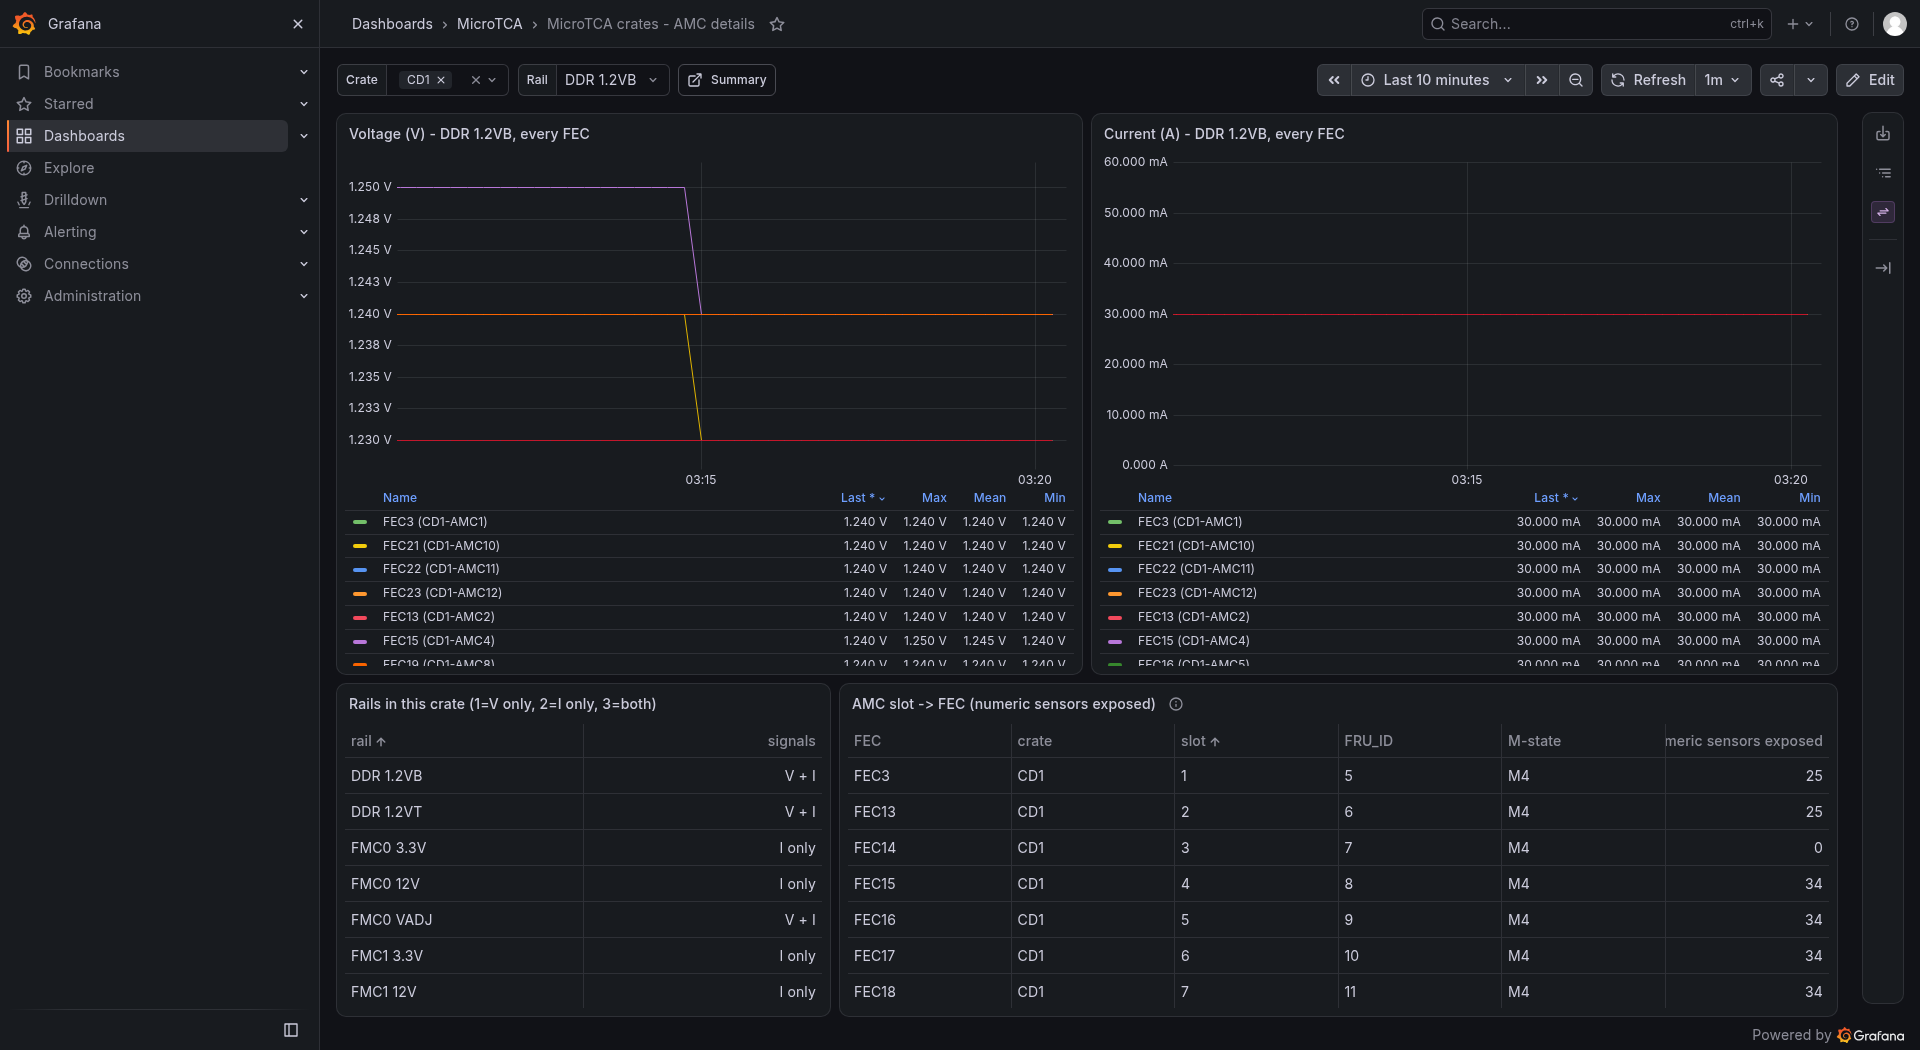
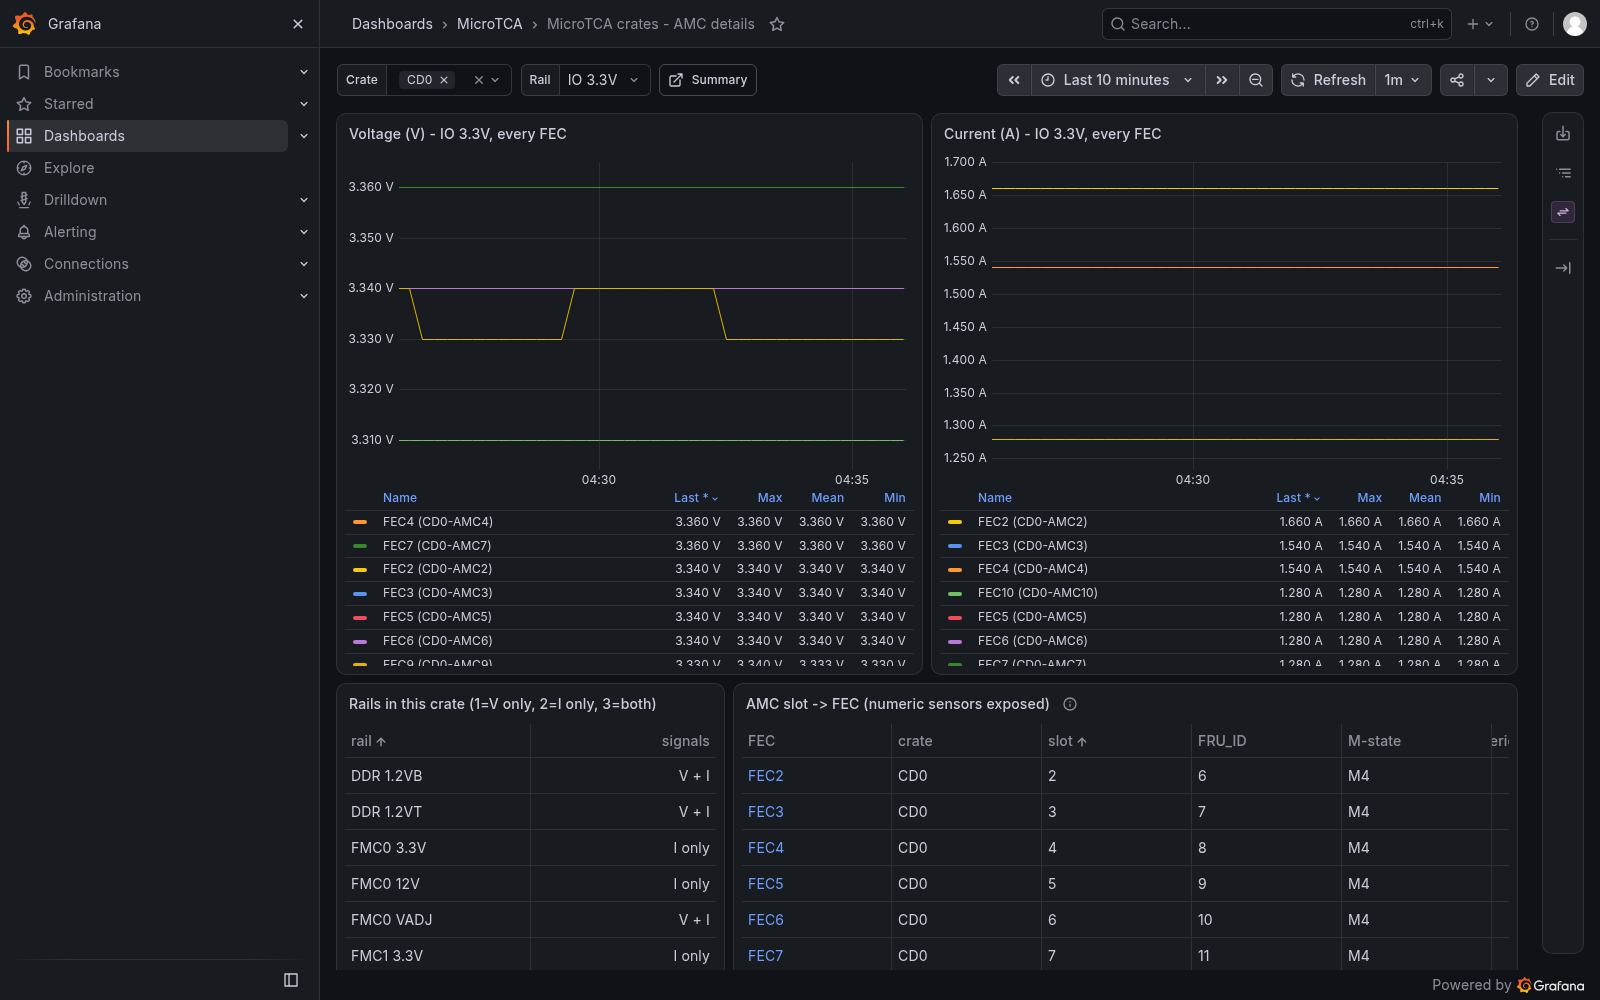
exporter: retry a failed target; dashboard: repair stale rail default
sweep(): a bridged MMC occasionally drops its session ('Activate Session
error: Timeout') or fails one SDR record read; that single hiccup marked the
whole sweep failed. Retry the target once after 2 s so a transient refusal
does not cost a cycle.

mtca-amc dashboard: the saved rail variable was 'IO +3.3V', a name that no
longer exists after the '+' normalisation, so the page opened blank. Default
is now 'IO 3.3V'.

diff --git a/src/mch_exporter.py b/src/mch_exporter.py
@@ -56,6 +56,7 @@ DEFAULT_GAP = 5.0
 TRANSIT = "0x82"
 TARGET_TIMEOUT = 60      # seconds per target; one dead MMC must not stall a sweep
 TARGET_GAP = 0.5
+TARGET_RETRY_GAP = 2.0   # pause before re-trying a failed target
 
 RE_TEMP = re.compile(r"^(-?[\d.]+) degrees C$")
 RE_RPM = re.compile(r"^(\d+) RPM$")
@@ -184,18 +185,28 @@ def sweep(mch, cfg, sdr_cache, crate_name=None, fec_lookup=None):
         if i:
             time.sleep(TARGET_GAP)
         t0 = time.time()
-        try:
-            p = subprocess.run(sweep_cmd(mch, target, sdr_cache),
-                               capture_output=True, text=True, timeout=TARGET_TIMEOUT)
-            if p.returncode != 0:
-                raise RuntimeError(" ".join((p.stderr or p.stdout).split())[:200])
-            rows = parse_elist(p.stdout)
-        except Exception as exc:
+        rows, last_exc = None, None
+        for attempt in (1, 2):
+            try:
+                p = subprocess.run(sweep_cmd(mch, target, sdr_cache),
+                                   capture_output=True, text=True,
+                                   timeout=TARGET_TIMEOUT)
+                if p.returncode != 0:
+                    raise RuntimeError(" ".join((p.stderr or p.stdout).split())[:200])
+                rows = parse_elist(p.stdout)
+                break
+            except Exception as exc:
+                last_exc = exc
+                if attempt == 1:
+                    # bridged MMCs drop sessions on a busy IPMB; one retry
+                    # after a pause usually gets through
+                    time.sleep(TARGET_RETRY_GAP)
+        if rows is None:
             ok = False
             with lock:
                 stats["poll_errors"] += 1
-            print("sweep of %s failed: %s" % (target["id"], exc),
-                  file=sys.stderr, flush=True)
+            print("sweep of %s failed (%d tries): %s"
+                  % (target["id"], 2, last_exc), file=sys.stderr, flush=True)
             continue
         target_durations[target["id"]] = time.time() - t0
 
